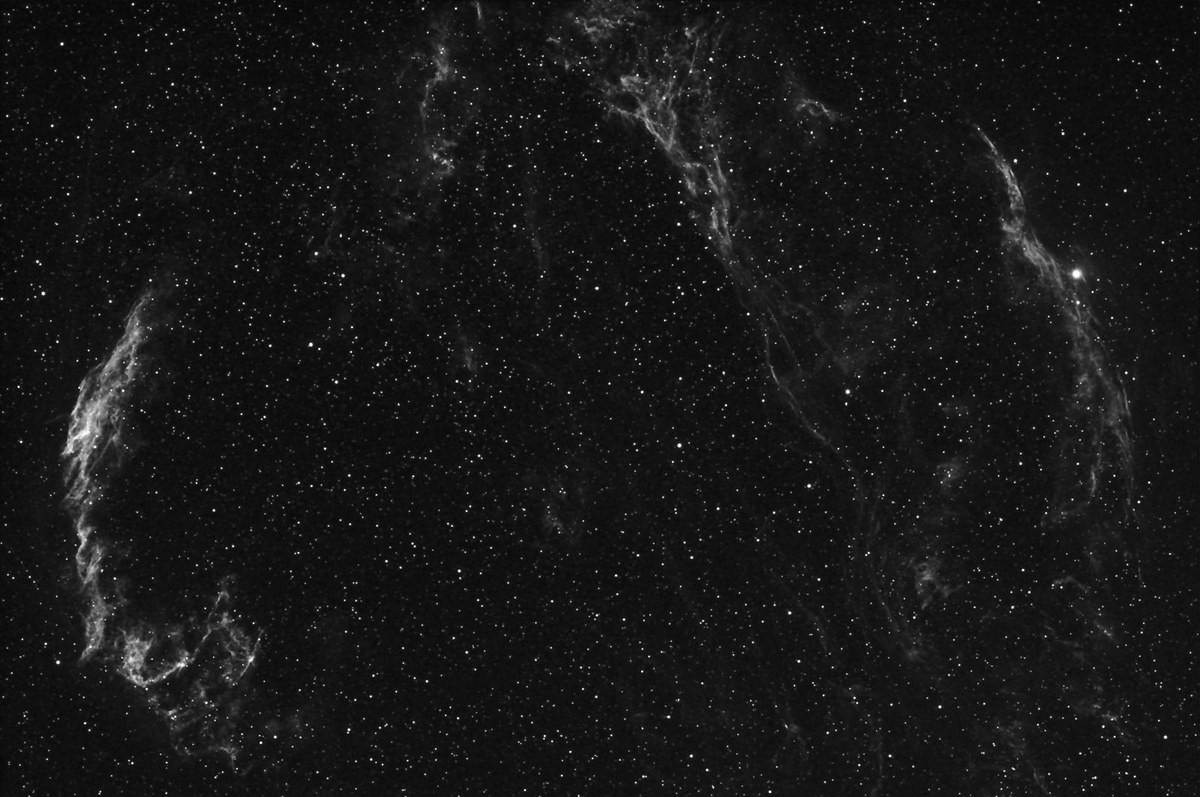
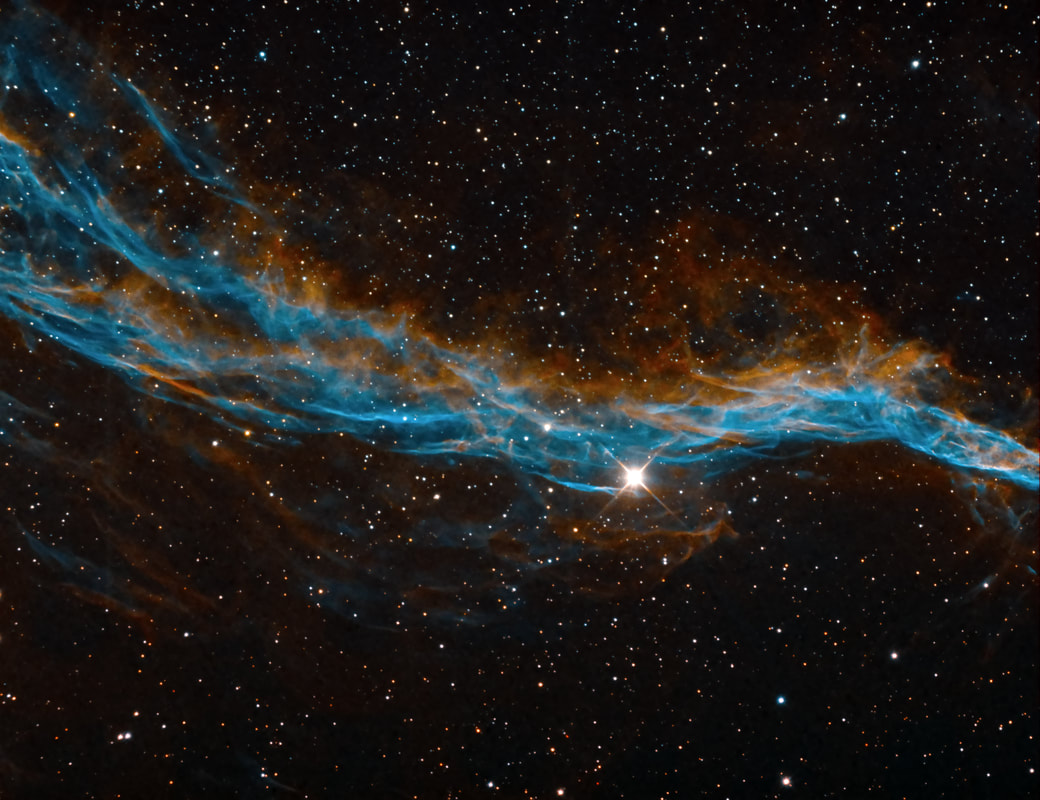
Add main gallery entry for NGC 6960 Witch's Broom bicolor blog post
The 2018 bicolor Ha/OIII image already covered in the blog post gets its
own main-gallery page too, using the same text for image specs, the
"About this Image" sidebar, and the AI-stub facts box. The blog post is
left untouched.

The archive-sourced 2003 grayscale version that previously held the
ngc6960-witchs-broom-bicolor slug (despite not actually being bicolor)
is renamed to ngc6960-veil-nebula-2003 and stays in the legacy gallery,
now correctly cross-linked as an earlier attempt.

diff --git a/src/content/gallery/ngc6960-witchs-broom-bicolor.md b/src/content/gallery/ngc6960-witchs-broom-bicolor.md
@@ -1,33 +1,31 @@
 ---
-title: "NGC 6960 - The Veil Nebula"
-description: The Veil Nebula, a wide-field grayscale Hydrogen-Alpha image encompassing most of the supernova remnant complex.
-pubDate: 2003-05-19
+title: "NGC 6960 - Witch's Broom in Bicolor"
+description: A bicolor hydrogen/oxygen image of the western Veil Nebula, shot with students during a summer astrophysics course.
+pubDate: 2018-12-30
 image: ./_images/ngc6960-witchs-broom-bicolor.jpg
 draft: false
-showInGallery: false
 ---
 
-The Veil Nebula in Cygnus, in grayscale Hydrogen-Alpha. An [earlier film attempt](/gallery/veil-nebula-complex/) is also on file.
+NGC 6960, the Witch's Broom, in a bicolor hydrogen/oxygen palette. A [2003 grayscale attempt](/gallery/ngc6960-veil-nebula-2003/) is also on file. This image is also covered in a [blog post](/blog/ngc6960-witchs-broom-bicolor/).
 
 <div class="ke-two-col">
 <div class="ke-two-col-specs">
 
-<p><strong>Location:</strong> Texas Star Party 2004 near Fort Davis, Texas</p>
-<p><strong>Seeing:</strong> 8/10</p>
-<p><strong>Transparency:</strong> 9/10</p>
-<p><strong>Date and Time:</strong> May 19, 2003</p>
-<p><strong>Equipment:</strong> Tak FSQ-106 on Tak NJP mount</p>
-<p><strong>Camera:</strong> SBIG STL-6303E, self-guided</p>
-<p><strong>Filter:</strong> Custom Scientific 5 nm H-alpha filter</p>
-<p><strong>Exposure information:</strong> Grayscale, 60 minutes (10 min sub-exposures)</p>
-<p><strong>Processing Information:</strong> Calibration, deblooming, alignment, and Sigma combine in MaxIm 4. Curves, Levels, and selective, iterative Unsharp Mask in Photoshop CS.</p>
-<p><strong>Exposure Notes:</strong> This was my first attempt at using the 5 nm H-alpha filter that is integrated into the STL-6303E. I didn't have as difficult a time finding a guidestar as I originally feared.</p>
+<p><strong>Location:</strong> Comanche Springs Astronomy Campus</p>
+<p><strong>Date:</strong> June 2018</p>
+<p><strong>Scope/Mount:</strong> 12.5" RCOS RC on a Paramount ME</p>
+<p><strong>Camera:</strong> FLI PL-16803</p>
+<p><strong>Filters:</strong> AstroDon 3nm spectral band filters (Ha, OIII)</p>
+<p><strong>Exposure Info:</strong> Bicolor image, 2 hours total data (1 hour ionized hydrogen, 1 hour ionized oxygen)</p>
+<p><strong>Processing Information:</strong> Bicolor palette -- hydrogen (H-alpha) data mapped to the red channel, oxygen (OIII) data mapped to the blue channel, and a 70/30 percent blend of OIII and H-alpha respectively assigned to the green channel.</p>
+<p><strong>Extra Notes:</strong> Data found on the Conley Observatory server at the Three Rivers Foundation, taken with students during the week-long "Astrophysics in a Nutshell" course.</p>
 
 </div>
 <div class="ke-sidebar ke-two-col-about" data-color="teal">
 
-<h2>About this Object</h2>
-<p>Perhaps my favorite visual object! This area of the sky is huge, so large in fact that placing all three segments of this supernova remnant on the CCD chip is rarely done without some form of mosaic. In this case, a large format CCD coupled with a short focal length astrograph can produce a thrilling, wide-field view of most all of the nebular regions of this complex.</p>
+<h2>About this Image</h2>
+<p>This is an image of NGC 6960, the western portion of the Veil Nebula. Known as the "Witch's Broom" or "Finger of God," among other names, this is only a small part of a larger complex of a supernova remnant; an exploded star. This intricate display of hydrogen and oxygen gases is centered around the star 52 Cygni, not the star that originally "blew up."</p>
+<p>Honestly, I didn't think much of the data at first, since we are now so conditioned to going long with our images. So, instead of aiming for a polished image, I merely passed it off as a part of the learning with our students. Certainly, more exposure time could bring out more of the faint background gases and clean up the image a little better, but processing it like this just goes to show that not everything needs hours of exposure time.</p>
 
 </div>
 </div>

diff --git a/src/content/gallery/ngc6960-veil-nebula-2003.md b/src/content/gallery/ngc6960-veil-nebula-2003.md
@@ -1,0 +1,58 @@
+---
+title: "NGC 6960 - The Veil Nebula (2003)"
+description: The Veil Nebula, a wide-field grayscale Hydrogen-Alpha image encompassing most of the supernova remnant complex.
+pubDate: 2003-05-19
+image: ./_images/ngc6960-veil-nebula-2003.jpg
+draft: false
+showInGallery: false
+---
+
+The Veil Nebula in Cygnus, in grayscale Hydrogen-Alpha. An [earlier film attempt](/gallery/veil-nebula-complex/) and a [more recent bicolor image](/gallery/ngc6960-witchs-broom-bicolor/) are also on file.
+
+<div class="ke-two-col">
+<div class="ke-two-col-specs">
+
+<p><strong>Location:</strong> Texas Star Party 2004 near Fort Davis, Texas</p>
+<p><strong>Seeing:</strong> 8/10</p>
+<p><strong>Transparency:</strong> 9/10</p>
+<p><strong>Date and Time:</strong> May 19, 2003</p>
+<p><strong>Equipment:</strong> Tak FSQ-106 on Tak NJP mount</p>
+<p><strong>Camera:</strong> SBIG STL-6303E, self-guided</p>
+<p><strong>Filter:</strong> Custom Scientific 5 nm H-alpha filter</p>
+<p><strong>Exposure information:</strong> Grayscale, 60 minutes (10 min sub-exposures)</p>
+<p><strong>Processing Information:</strong> Calibration, deblooming, alignment, and Sigma combine in MaxIm 4. Curves, Levels, and selective, iterative Unsharp Mask in Photoshop CS.</p>
+<p><strong>Exposure Notes:</strong> This was my first attempt at using the 5 nm H-alpha filter that is integrated into the STL-6303E. I didn't have as difficult a time finding a guidestar as I originally feared.</p>
+
+</div>
+<div class="ke-sidebar ke-two-col-about" data-color="teal">
+
+<h2>About this Object</h2>
+<p>Perhaps my favorite visual object! This area of the sky is huge, so large in fact that placing all three segments of this supernova remnant on the CCD chip is rarely done without some form of mosaic. In this case, a large format CCD coupled with a short focal length astrograph can produce a thrilling, wide-field view of most all of the nebular regions of this complex.</p>
+
+</div>
+</div>
+
+<div class="ke-ai-stub">
+<span class="ke-ai-stub-badge">🤖 AI-drafted &middot; unverified</span>
+
+<dl class="ke-ai-stub-facts">
+<dt>What it is</dt>
+<dd>NGC 6960, nicknamed the "Witch's Broom" or "Filamentary Nebula," is the western arc of the Veil Nebula, the expanding wreckage of a star that exploded as a supernova an estimated 10,000–20,000 years ago.</dd>
+<dt>Constellation</dt>
+<dd>Cygnus</dd>
+<dt>Distance</dt>
+<dd>~2,400 light-years</dd>
+<dt>Apparent magnitude</dt>
+<dd>~7</dd>
+<dt>Angular size</dt>
+<dd>~70 &times; 6 arcminutes</dd>
+<dt>Coordinates</dt>
+<dd>RA 20h 45m, Dec +30&deg; 43&prime;</dd>
+</dl>
+
+<p class="ke-ai-stub-desc">This summary was generated by an AI assistant from general astronomical references, not from Jay's own notes on this specific image. Treat every detail above as a starting point for research, not settled fact.</p>
+
+<div class="ke-ai-stub-footer">
+<span class="tag">Verify further:</span> <a href="https://en.wikipedia.org/wiki/Veil_Nebula">Wikipedia: Veil Nebula</a>
+</div>
+</div>

diff --git a/src/content/gallery/veil-nebula-complex.md b/src/content/gallery/veil-nebula-complex.md
@@ -7,7 +7,7 @@ draft: false
 showInGallery: false
 ---
 
-An early film exposure of the Veil Nebula in Cygnus. A [later, deeper CCD attempt](/gallery/ngc6960-witchs-broom-bicolor/) is also on file.
+An early film exposure of the Veil Nebula in Cygnus. A [later, deeper CCD attempt](/gallery/ngc6960-veil-nebula-2003/) and a [more recent bicolor image](/gallery/ngc6960-witchs-broom-bicolor/) are also on file.
 
 <div class="ke-two-col">
 <div class="ke-two-col-specs">
